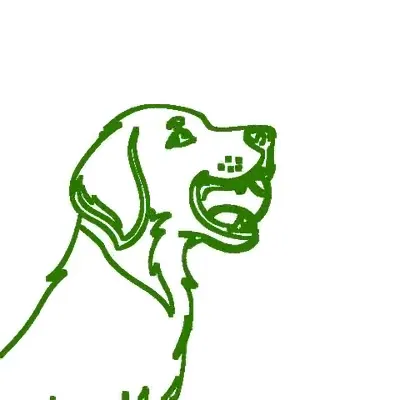
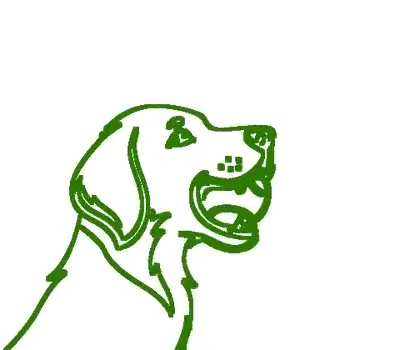
фиксы: логаут внутри игры/турнира сбрасывает навигацию; демо-тизер на реальные аватарки приложения; у видео пса обрезан нижний «мусор» (crop 400x350)
Claude-Session: https://claude.ai/code/session_01HZM6KSVFmkFAGZbmjSLLed

Changed region(s): [[0.0, 0.2571, 0.69, 1.0], [0.12, 0.9714, 0.15, 1.0]]

diff --git a/src/PadelLeague.jsx b/src/PadelLeague.jsx
@@ -223,6 +223,19 @@ export default function PadelLeague({ groupId, session, profileId, leagues = [],
     prevGroupRef.current = groupId;
     if (session) { setTab("board"); setNavNonce((n) => n + 1); }
   }, [groupId, session]);
+  // Логаут внутри игры/турнира: сессия ушла — сбрасываем навигацию, иначе
+  // остаёшься на открытом экране игры/турнира. Ремоунт вкладок (navNonce)
+  // чистит их внутреннее состояние (выбранная игра/турнир), + закрываем оверлеи.
+  const prevSessionRef = useRef(!!session);
+  useEffect(() => {
+    const has = !!session;
+    if (prevSessionRef.current && !has) {
+      setTab("welcome");
+      setNavNonce((n) => n + 1);
+      setTourPlayer(null);
+    }
+    prevSessionRef.current = has;
+  }, [session]);
   const [players, setPlayers] = useState([]);
   // Карточка игрока, открытая из экрана турнира (объявляем ПОСЛЕ players —
   // useCallback читает players в зависимостях, иначе TDZ и белый экран).
@@ -780,13 +793,13 @@ function Board({ groupId, players, loading = false, reload, profileId, bumpArchi
 
             <div className="demo-peek" aria-hidden="true" style={{ borderRadius: 13, background: "color-mix(in srgb, var(--bg) 55%, var(--surface))", border: "1px solid var(--line)", padding: 6, display: "flex", flexDirection: "column", gap: 3 }}>
               {[
-                { r: "1", n: "Rex", ti: t("demo_teaser_t1"), p: 1248, bg: "var(--lime)", em: "🐕", lead: true },
-                { r: "2", n: "Bruno", ti: t("demo_teaser_t2"), p: 1176, bg: "var(--yellow)", em: "🦮", lead: false },
-                { r: "3", n: "Luna", ti: t("demo_teaser_t3"), p: 1090, bg: "var(--coral)", em: "🐩", lead: false },
+                { r: "1", n: "Rex", ti: t("demo_teaser_t1"), p: 1248, lead: true },
+                { r: "2", n: "Bruno", ti: t("demo_teaser_t2"), p: 1176, lead: false },
+                { r: "3", n: "Luna", ti: t("demo_teaser_t3"), p: 1090, lead: false },
               ].map((d) => (
                 <div key={d.r} style={{ display: "flex", alignItems: "center", gap: 9, padding: "7px 8px", borderRadius: 9, background: d.lead ? "color-mix(in srgb, var(--lime) 10%, transparent)" : "transparent" }}>
                   <span style={{ fontSize: 12, fontWeight: 800, color: d.lead ? "var(--lime)" : "var(--mut)", width: 14, textAlign: "center" }}>{d.r}</span>
-                  <span style={{ width: 30, height: 30, borderRadius: "50%", display: "grid", placeItems: "center", fontSize: 16, flexShrink: 0, border: "1px solid var(--line)", background: `color-mix(in srgb, ${d.bg} 22%, transparent)` }}>{d.em}</span>
+                  <img src={dogAvatar(d.n)} alt="" style={{ width: 30, height: 30, borderRadius: "50%", flexShrink: 0, objectFit: "cover", border: "1px solid var(--line)" }} />
                   <span style={{ flex: 1, minWidth: 0 }}>
                     <span style={{ display: "block", fontSize: 13, fontWeight: 700, whiteSpace: "nowrap", overflow: "hidden", textOverflow: "ellipsis" }}>{d.n}</span>
                     <span style={{ display: "block", fontSize: 10, color: "var(--mut)" }}>{d.ti}</span>